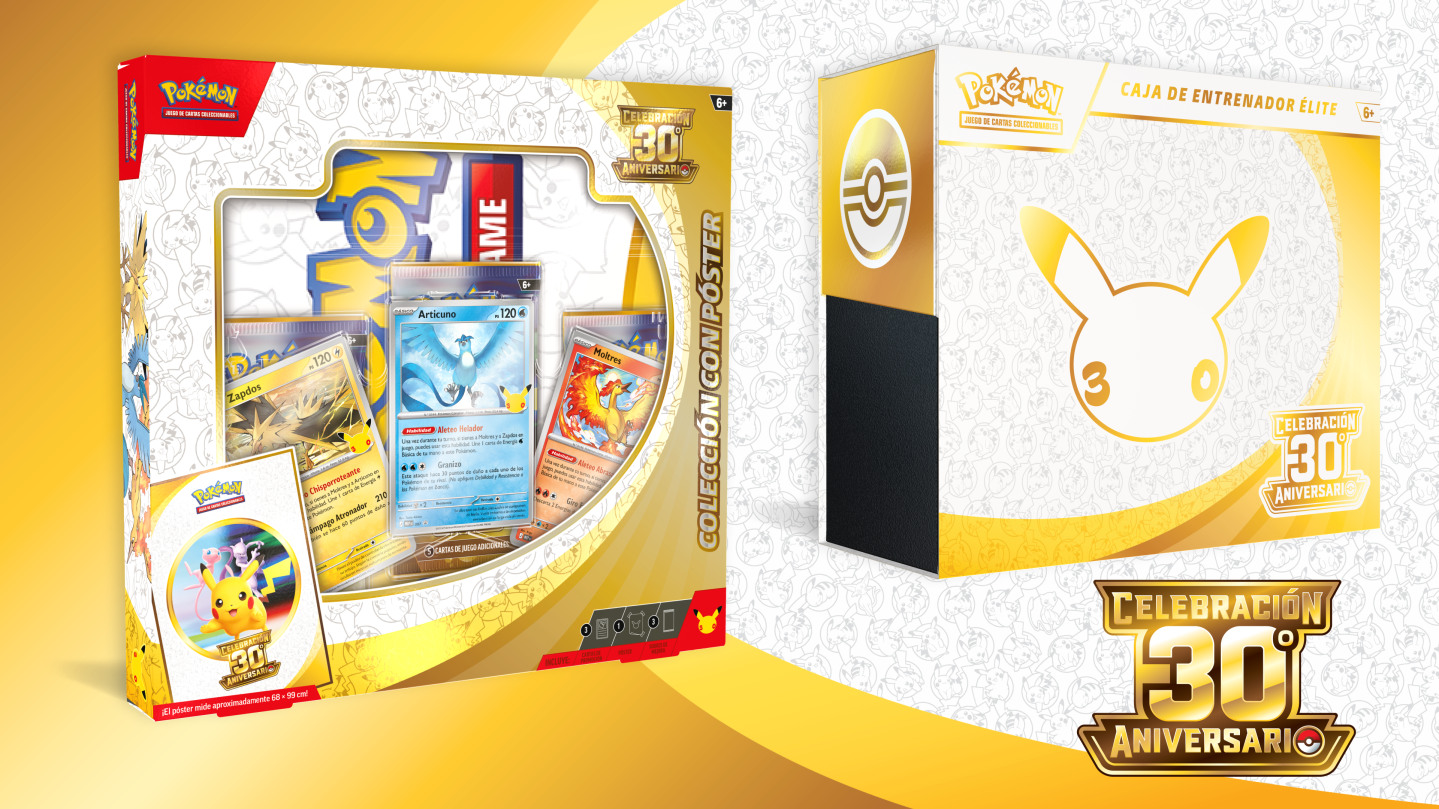
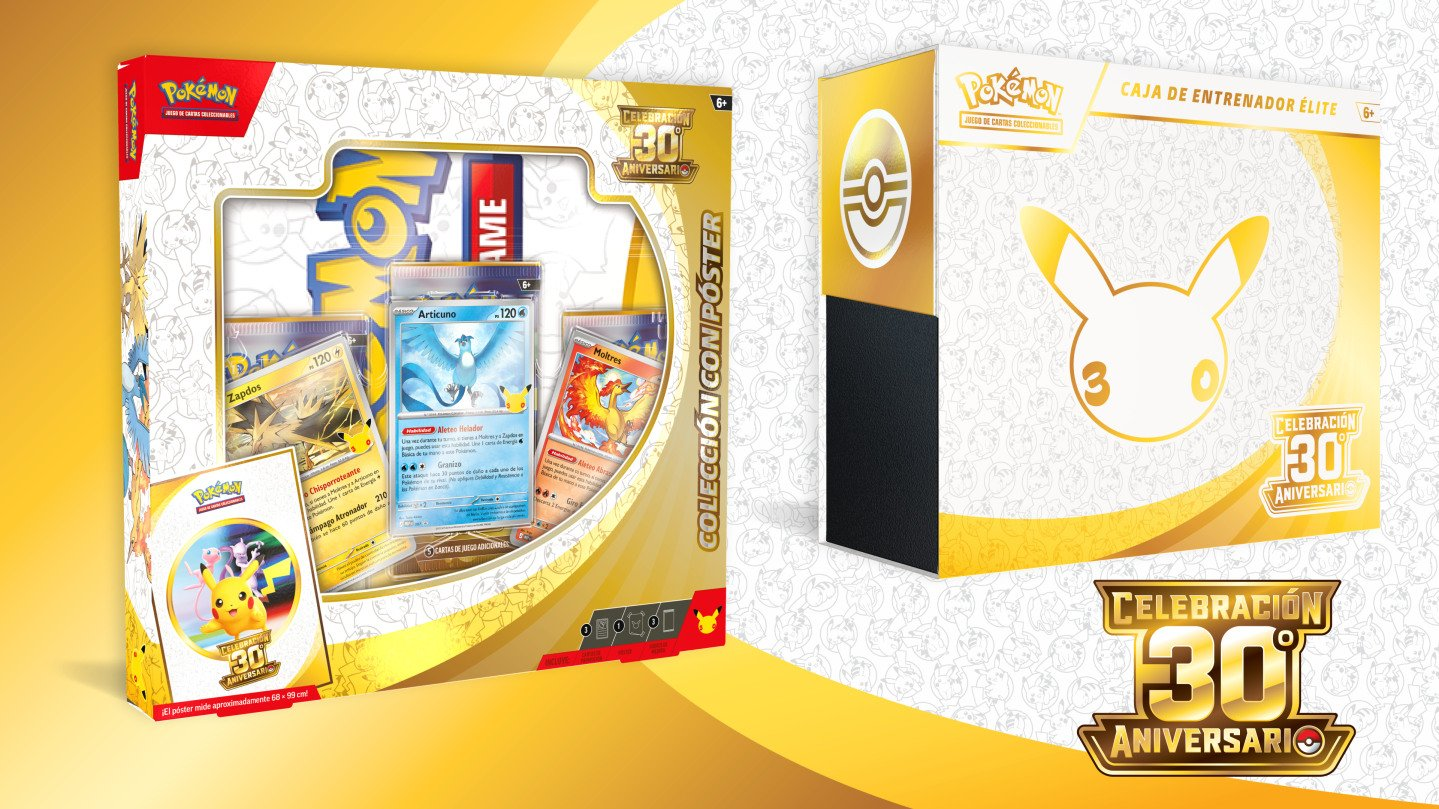
Optimize news images: ~1.84 MB saved across 4 files
These weren't touched by the PageSpeed audit that flagged image
savings (added after it) — the two PNGs in particular were badly
oversized for photographic/illustration content (PNG is lossless,
bad fit here):

- delta-reign-golisopod.png (1100 KB) -> .webp (110 KB)
- delta-reign-rayquaza.png (657 KB) -> .jpg (123 KB) — kept JPEG
  since it's used as og:image and social crawlers are pickier about
  WebP than modern browsers
- 30th-etb.jpg (332 KB) -> .webp (109 KB), resized 2000->1400px wide
  (never displayed above 760px CSS width, even at 2x retina)
- 30th-showcase.jpg (409 KB) -> re-encoded in place (270 KB) — also
  an og:image, same reasoning as rayquaza

No visible quality loss at the sizes these actually render at.

diff --git a/noticia-delta-reign.html b/noticia-delta-reign.html
@@ -12,11 +12,11 @@
 <meta property="og:url" content="https://wheresthatstock.com/noticia-delta-reign">
 <meta property="og:title" content="Pokémon TCG Delta Reign: fecha de lanzamiento y Mega-Rayquaza ex — Where's That Stock">
 <meta property="og:description" content="Mega Evolution—Delta Reign, la nueva expansión del JCC Pokémon protagonizada por Mega-Rayquaza ex, llega el 6 de noviembre de 2026. Todos los datos oficiales confirmados.">
-<meta property="og:image" content="https://wheresthatstock.com/assets/noticias/delta-reign-rayquaza.png">
+<meta property="og:image" content="https://wheresthatstock.com/assets/noticias/delta-reign-rayquaza.jpg">
 <meta name="twitter:card" content="summary_large_image">
 <meta name="twitter:title" content="Pokémon TCG Delta Reign: fecha de lanzamiento y Mega-Rayquaza ex — Where's That Stock">
 <meta name="twitter:description" content="Mega Evolution—Delta Reign, la nueva expansión del JCC Pokémon protagonizada por Mega-Rayquaza ex, llega el 6 de noviembre de 2026. Todos los datos oficiales confirmados.">
-<meta name="twitter:image" content="https://wheresthatstock.com/assets/noticias/delta-reign-rayquaza.png">
+<meta name="twitter:image" content="https://wheresthatstock.com/assets/noticias/delta-reign-rayquaza.jpg">
 <link rel="preconnect" href="https://fonts.googleapis.com">
 <link rel="preconnect" href="https://fonts.gstatic.com" crossorigin>
 <link rel="preload" as="style" href="https://fonts.googleapis.com/css2?family=Inter:wght@400;500;600;700;800;900&family=Luckiest+Guy&display=swap" onload="this.onload=null;this.rel='stylesheet'">
@@ -40,7 +40,7 @@
   "headline": "Pokémon TCG: Mega Evolution—Delta Reign — vuelve Mega-Rayquaza ex, con fecha ya confirmada",
   "datePublished": "2026-09-05",
   "dateModified": "2026-09-05",
-  "image": "https://wheresthatstock.com/assets/noticias/delta-reign-rayquaza.png",
+  "image": "https://wheresthatstock.com/assets/noticias/delta-reign-rayquaza.jpg",
   "author": { "@type": "Organization", "name": "Where's That Stock" },
   "publisher": { "@type": "Organization", "name": "Where's That Stock", "logo": { "@type": "ImageObject", "url": "https://wheresthatstock.com/assets/logo.jpg" } },
   "mainEntityOfPage": "https://wheresthatstock.com/noticia-delta-reign"
@@ -72,10 +72,10 @@
     <article class="news-article">
       <div class="news-date">5 de septiembre de 2026</div>
       <h1>Pokémon TCG: Mega Evolution—Delta Reign — vuelve Mega-Rayquaza ex, con fecha ya confirmada</h1>
-      <img class="news-article-img" src="assets/noticias/delta-reign-rayquaza.png" alt="Arte oficial de Mega-Rayquaza ex para la expansión Mega Evolution—Delta Reign de JCC Pokémon" width="578" height="578" loading="lazy">
+      <img class="news-article-img" src="assets/noticias/delta-reign-rayquaza.jpg" alt="Arte oficial de Mega-Rayquaza ex para la expansión Mega Evolution—Delta Reign de JCC Pokémon" width="578" height="578" loading="lazy">
       <p><strong>Mega Evolution—Delta Reign</strong> es la nueva expansión del JCC Pokémon, dentro de la serie Mega Evolution, y llega a las tiendas el <strong>6 de noviembre de 2026</strong>. La protagoniza <strong>Mega-Rayquaza ex</strong>, acompañado de Mega-Golurk ex, Mega-Malamar ex y Mega-Golisopod ex.</p>
       <p>Según los datos oficiales de Pokémon.com, el set trae <strong>más de 135 cartas</strong>, con más de 20 cartas de Entrenador y más de 35 cartas (Pokémon y Entrenador) con ilustraciones especiales — de las expansiones más grandes de la serie hasta ahora.</p>
-      <img class="news-article-img" src="assets/noticias/delta-reign-golisopod.png" alt="Carta Mega-Golisopod ex de la expansión Mega Evolution—Delta Reign" width="660" height="920" loading="lazy">
+      <img class="news-article-img" src="assets/noticias/delta-reign-golisopod.webp" alt="Carta Mega-Golisopod ex de la expansión Mega Evolution—Delta Reign" width="660" height="920" loading="lazy">
       <p>Todavía no hay detalles oficiales sobre productos concretos (Cajas de Entrenador Élite, sobres, colecciones especiales) ni precios — Pokémon ha confirmado que llegará "más información próximamente". En cuanto haya productos listados en Amazon España, aparecerán automáticamente en <a href="pokemontcg">Pokémon TCG</a>.</p>
       <p class="news-source">Fuente: <a href="https://www.pokemon.com/uk/news/the-pokemon-tcg-mega-evolution-delta-reign-expansion-arrives-november-6-2026" target="_blank" rel="noopener">Pokemon.com (UK)</a></p>
     </article>

diff --git a/noticia-celebracion-30-aniversario.html b/noticia-celebracion-30-aniversario.html
@@ -86,7 +86,7 @@
         <li><strong>Ultra Premium Collection</strong> (Día/Noche) — 29 sobres + accesorios exclusivos</li>
         <li>Además: Colección con Pegatinas, Blíster de 2 Sobres, Álbum, Lote de Sobres y Minilatas (10 variantes)</li>
       </ul>
-      <img class="news-article-img" src="assets/noticias/30th-etb.jpg" alt="Caja de Entrenador Élite de la Celebración 30.º Aniversario de JCC Pokémon" width="2000" height="1125" loading="lazy">
+      <img class="news-article-img" src="assets/noticias/30th-etb.webp" alt="Caja de Entrenador Élite de la Celebración 30.º Aniversario de JCC Pokémon" width="1400" height="788" loading="lazy">
       <p>Todavía no hay precios oficiales confirmados. En cuanto estos productos empiecen a listarse en Amazon España, nuestro bot los detectará automáticamente y aparecerán en <a href="pokemontcg">Pokémon TCG</a> y en <a href="cajas-etb">Cajas ETB</a> junto con el resto del stock en directo.</p>
       <p class="news-source">Fuente: <a href="https://www.pokemon.com/es/noticias/productos-de-celebracion-30-o-aniversario-de-jcc-pokemon" target="_blank" rel="noopener">Pokémon.com España</a></p>
     </article>

diff --git a/index.html b/index.html
@@ -154,7 +154,7 @@
     </div>
     <div class="news-list news-grid">
       <a class="news-card" href="noticia-delta-reign">
-        <img class="news-card-img" src="assets/noticias/delta-reign-rayquaza.png" alt="Arte oficial de Mega-Rayquaza ex" width="578" height="578" loading="lazy">
+        <img class="news-card-img" src="assets/noticias/delta-reign-rayquaza.jpg" alt="Arte oficial de Mega-Rayquaza ex" width="578" height="578" loading="lazy">
         <div class="news-card-body">
           <div class="news-date">5 de septiembre de 2026</div>
           <h3>Pokémon TCG: Mega Evolution—Delta Reign — vuelve Mega-Rayquaza ex, con fecha ya confirmada</h3>

diff --git a/noticias.html b/noticias.html
@@ -60,7 +60,7 @@
   </div>
   <div class="news-list news-grid">
     <a class="news-card" href="noticia-delta-reign">
-      <img class="news-card-img" src="assets/noticias/delta-reign-rayquaza.png" alt="Arte oficial de Mega-Rayquaza ex" width="578" height="578" loading="lazy">
+      <img class="news-card-img" src="assets/noticias/delta-reign-rayquaza.jpg" alt="Arte oficial de Mega-Rayquaza ex" width="578" height="578" loading="lazy">
       <div class="news-card-body">
         <div class="news-date">5 de septiembre de 2026</div>
         <h2>Pokémon TCG: Mega Evolution—Delta Reign — vuelve Mega-Rayquaza ex, con fecha ya confirmada</h2>
